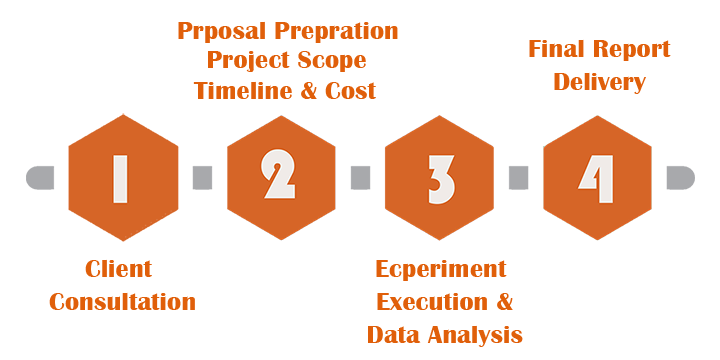
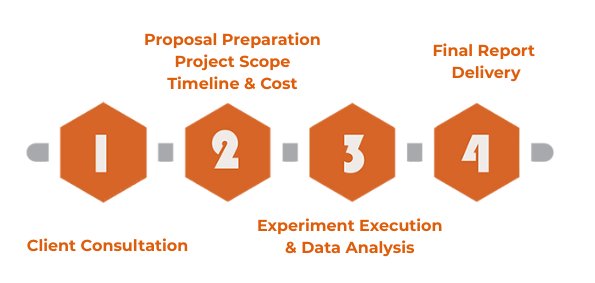
spell check image & removed unwanted orange animation

diff --git a/science.html b/science.html
@@ -130,8 +130,7 @@
                             <div class="about-two__thumb">
                                 <div class="about-two__thumb__item">
                                     <img src="assets/images/science/oncoseek.gif" alt="Oncoseek">
-                                </div>
-                                
+                                </div>                               
                             </div>
                         </div>
                     </div>

diff --git a/assets/css/oncoseek.css b/assets/css/oncoseek.css
@@ -11755,7 +11755,6 @@ body.megamenu-popup-active .mobile-nav__content {
   position: absolute;
   top: 0;
   left: -70px;
-  background: var(--laboix-secondary, #0EBD66);
   animation: topAni 4s ease-in-out infinite;
 }
 .about-two__thumb__item {
